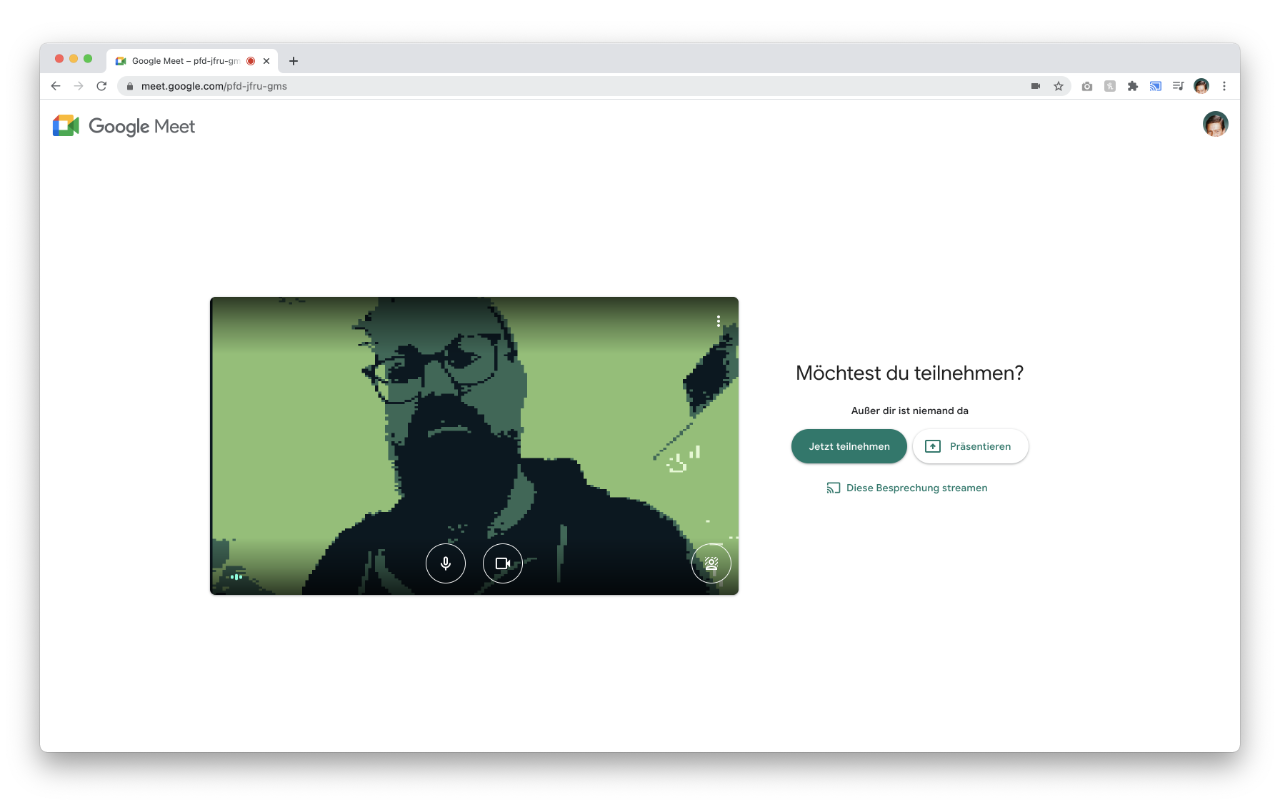
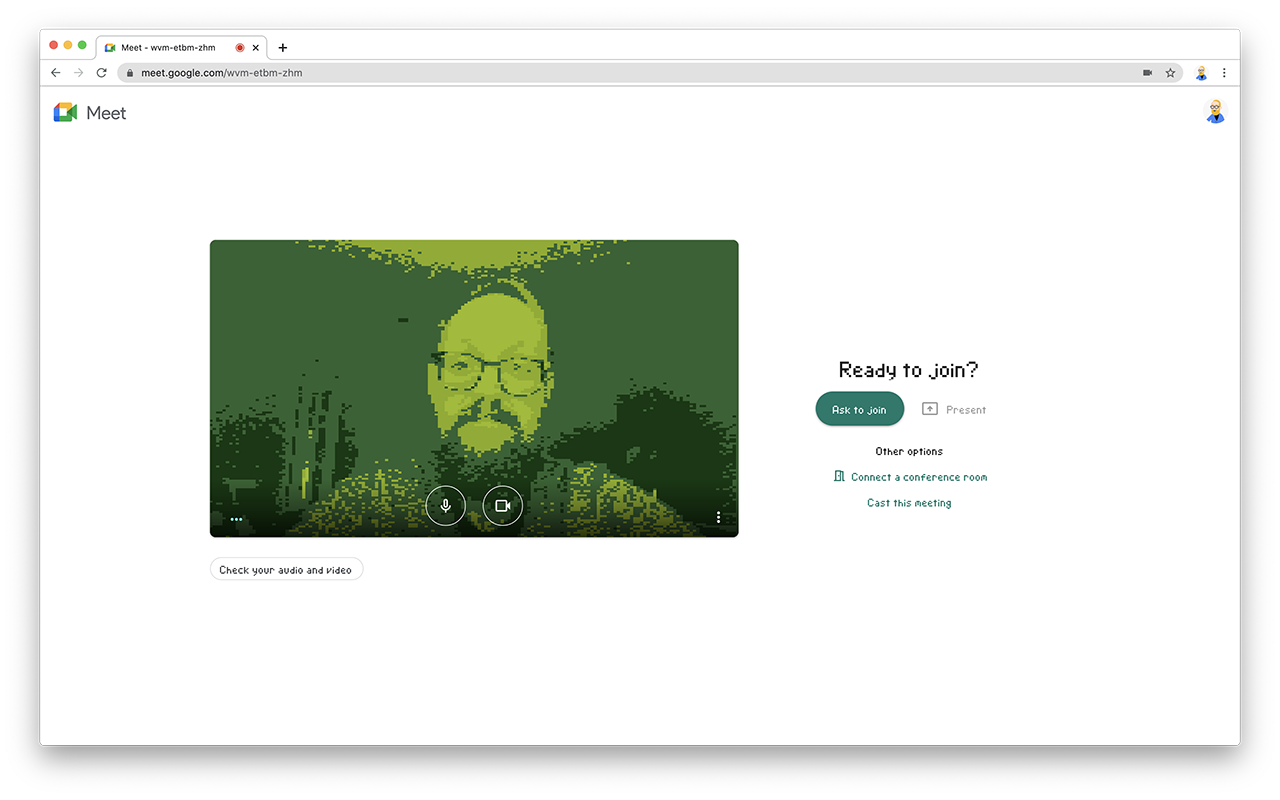
Fixed typeface bugs

Changed region(s): [[0.1562, 0.2812, 0.7812, 0.75], [0.0312, 0.0312, 0.9688, 0.1875], [0.0312, 0.9062, 0.9688, 0.9688]]

diff --git a/src/content.css b/src/content.css
@@ -10,8 +10,15 @@
   font-family: 'crystal-pokefk' !important;
 }
 
-.google-material-icons {
-  display: none !important;
+img.gb_uc + span {
+  top: -5px;
+}
+
+.google-material-icons,
+.material-icons-extended  {
+  /* display: none !important; */
+  opacity: 0 !important;
+  width: 0 !important;
 }
 
 .__game-boy-camera__canvas {

diff --git a/README.md b/README.md
@@ -3,11 +3,14 @@ Game Boy Meets
 
 ## Google Meets through the lens of a Game Boy Camera.
 
+[Install Extension for Chrome](https://chrome.google.com/webstore/detail/game-boy-camera-meets/geblndbhoeempcodbadbjmjfencilfko)
+
 ![Screenshot of Game Boy Meets](./assets/game-boy-meets_screenshot-00.png)
 
 ### References
 
 - [Codepen Demo](https://codepen.io/frederickk/pen/PoGgvay)
+- [Pixel Typeface](https://fontstruct.com/fontstructions/show/1880352/crystal-pokefk-v4-1)
 - [BBC/VideoContext](https://github.com/bbc/VideoContext)
 - [Game Boy Camera](https://www.shadertoy.com/view/ttsSzr)
 - [GB-Dither](https://www.shadertoy.com/view/3lKcR3)
